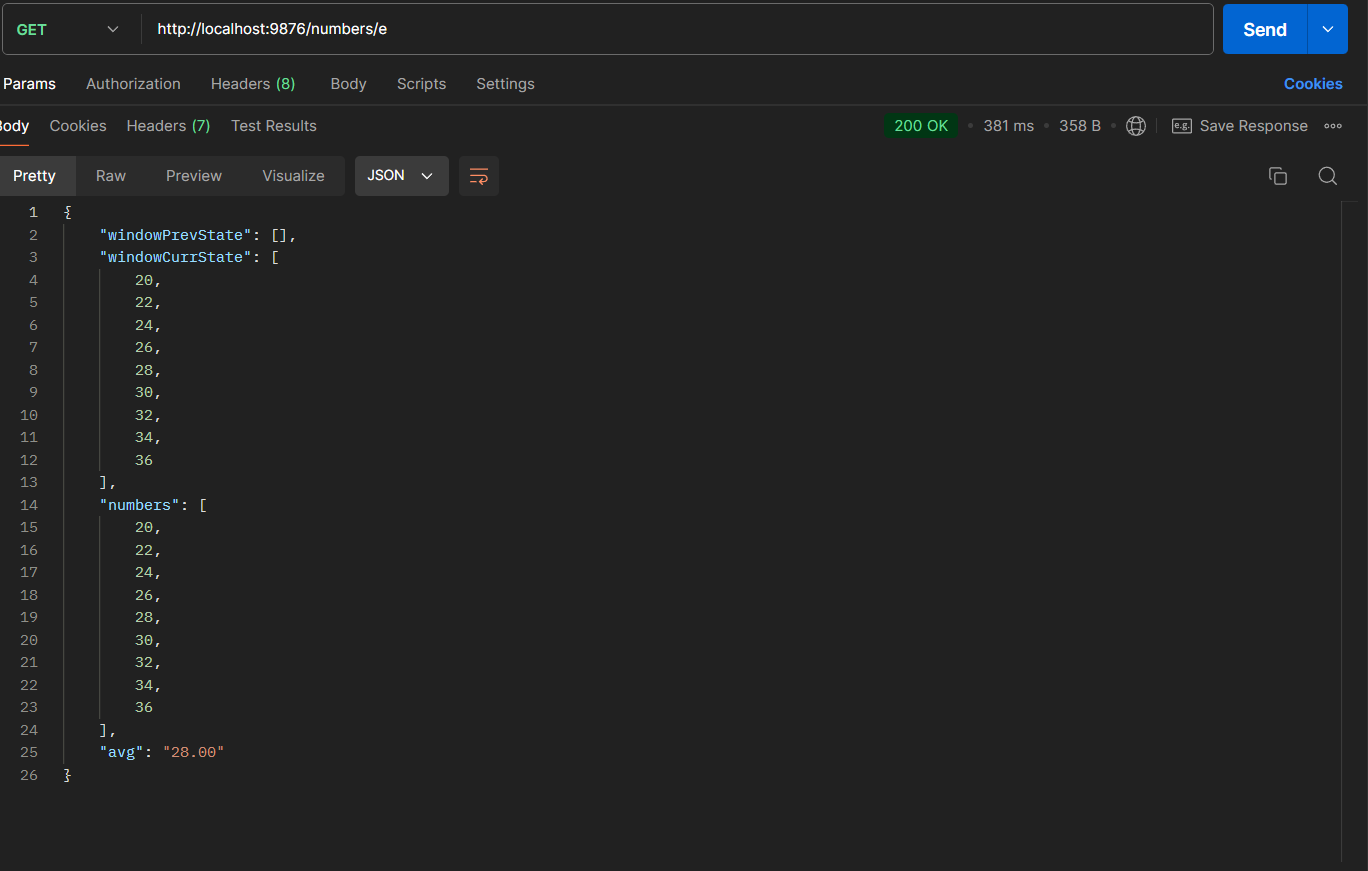
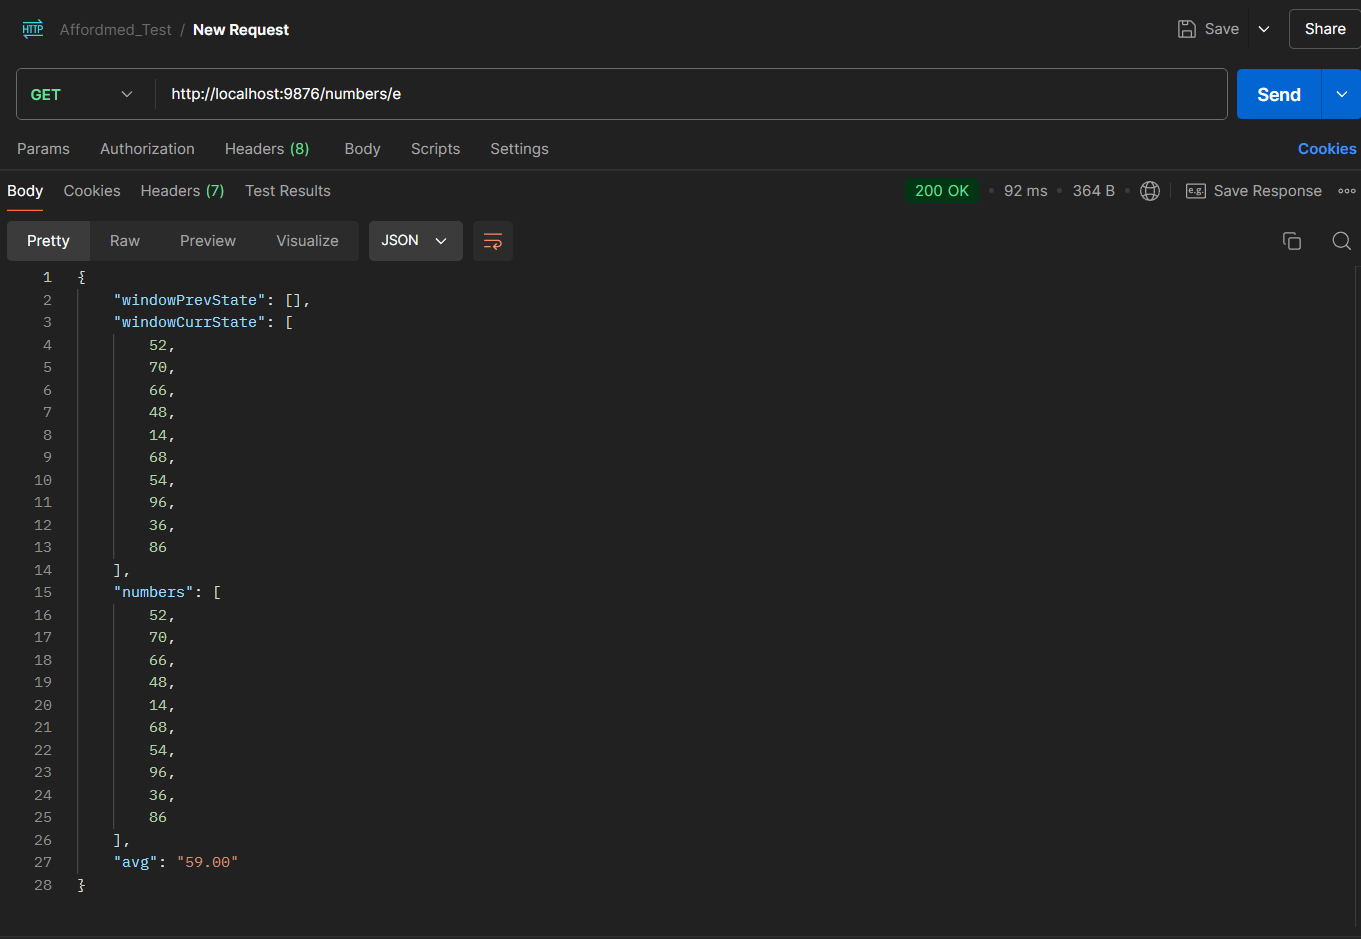
added screenshot

diff --git a/AverageCalculator/services/numberService.js b/AverageCalculator/services/numberService.js
@@ -1,6 +1,7 @@
 const axios = require("axios");
 
 const ACCESS_TOKEN = process.env.ACCESS_TOKEN;
+
 const API_ENDPOINTS = {
   p: "http://20.244.56.144/evaluation-service/primes",
   f: "http://20.244.56.144/evaluation-service/fibonacci",
@@ -8,7 +9,47 @@ const API_ENDPOINTS = {
   r: "http://20.244.56.144/evaluation-service/rand",
 };
 
+const getRandomCount = () => Math.floor(Math.random() * (20 - 5 + 1)) + 5;
+
+const generateRandomNumbers = (count, min = 1, max = 100) => {
+  return Array.from(
+    { length: count },
+    () => Math.floor(Math.random() * (max - min + 1)) + min
+  );
+};
+
+const generateRandomPrimes = async (count, min = 2, max = 100) => {
+  let primes = [];
+  while (primes.length < count) {
+    const num = Math.floor(Math.random() * (max - min + 1)) + min;
+    if (num > 1 && primes.every((p) => num % p !== 0)) {
+      primes.push(num);
+    }
+  }
+  return primes;
+};
+
+const generateRandomFibonacci = async (count) => {
+  const fib = [0, 1];
+  while (fib.length < 50) {
+    fib.push(fib[fib.length - 1] + fib[fib.length - 2]);
+  }
+  const startIdx = Math.floor(Math.random() * (fib.length - count));
+  return fib.slice(startIdx, startIdx + count);
+};
+
+const generateRandomEvenNumbers = async (count, min = 2, max = 100) => {
+  let evens = new Set();
+  while (evens.size < count) {
+    const num = Math.floor(Math.random() * (max - min + 1)) + min;
+    if (num % 2 === 0) evens.add(num);
+  }
+  return [...evens];
+};
+
 const fetchNumbers = async (type) => {
+  const count = getRandomCount();
+
   if (!API_ENDPOINTS[type]) return [];
 
   try {
@@ -19,8 +60,18 @@ const fetchNumbers = async (type) => {
 
     return response.data.numbers || [];
   } catch (error) {
-    console.error("Error fetching numbers:", error.message);
-    return [];
+    switch (type) {
+      case "p":
+        return await generateRandomPrimes(count);
+      case "f":
+        return await generateRandomFibonacci(count);
+      case "e":
+        return await generateRandomEvenNumbers(count);
+      case "r":
+        return await generateRandomNumbers(count);
+      default:
+        return [];
+    }
   }
 };
 

diff --git a/AverageCalculator/controllers/numbersController.js b/AverageCalculator/controllers/numbersController.js
@@ -8,6 +8,8 @@ const getNumbers = async (req, res) => {
   console.log(type);
   const numbers = await fetchNumbers(type);
 
+  // console.log(numbers);
+
   if (!numbers.length) {
     return res
       .status(500)
@@ -15,6 +17,7 @@ const getNumbers = async (req, res) => {
   }
 
   const newNumbers = numbers.filter((num) => !windowCurrentState.includes(num));
+  // console.log(newNumbers);
   const windowPrevState = [...windowCurrentState];
 
   windowCurrentState.push(...newNumbers);
@@ -31,7 +34,7 @@ const getNumbers = async (req, res) => {
   res.json({
     windowPrevState,
     windowCurrState: [...windowCurrentState],
-    numbers: newNumbers,
+    numbers: numbers,
     avg: avg.toFixed(2),
   });
 };
